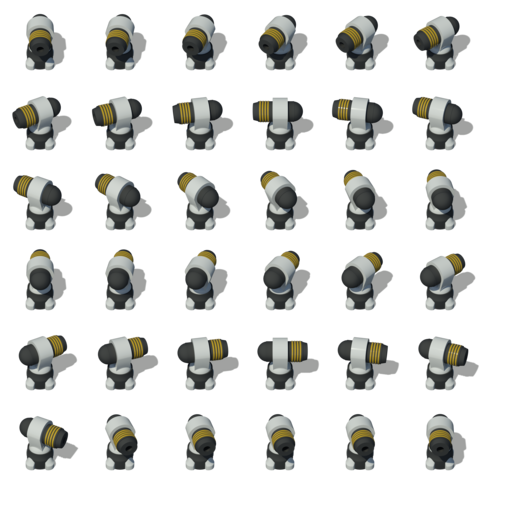
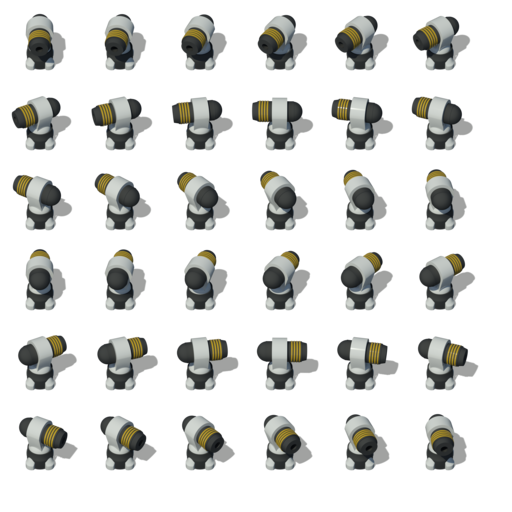
Animacja bazy. (jeszcze będzie poprawiana)

diff --git a/towerdef/src/pl/czyzycki/towerdef/gameplay/entities/Base.java b/towerdef/src/pl/czyzycki/towerdef/gameplay/entities/Base.java
@@ -2,8 +2,12 @@ package pl.czyzycki.towerdef.gameplay.entities;
 
 import pl.czyzycki.towerdef.gameplay.helpers.Circle;
 
+import com.badlogic.gdx.assets.AssetManager;
+import com.badlogic.gdx.graphics.Texture;
+import com.badlogic.gdx.graphics.g2d.Animation;
 import com.badlogic.gdx.graphics.g2d.BitmapFont;
 import com.badlogic.gdx.graphics.g2d.SpriteBatch;
+import com.badlogic.gdx.graphics.g2d.TextureRegion;
 import com.badlogic.gdx.graphics.glutils.ShapeRenderer;
 import com.badlogic.gdx.graphics.glutils.ShapeRenderer.ShapeType;
 import com.badlogic.gdx.math.Vector2;
@@ -14,8 +18,34 @@ public class Base {
 	Circle hitZone;
 	int hp, maxHp, hpBonus;
 	boolean destroyed;
+	float timer=0;
 	
 	StringBuilder hpText;
+	
+	static Animation baseAnimation;
+	
+	static public void loadAnimations(AssetManager assetMgr) {
+		Texture texture = assetMgr.get("images/base-anim.png", Texture.class);
+		TextureRegion[][] tmp = TextureRegion.split(texture, 80, 80);
+		
+		float animSpeed = 0.05f;
+		
+		
+		TextureRegion[] frames = new TextureRegion[63];
+
+		int k = 0;
+		boolean done = false;
+		
+		for(int i=0; i<tmp.length && !done; i++) {
+			for(int j=0; j<tmp[i].length && !done; j++) {
+				frames[k] = tmp[i][j];
+				k++;
+				if(k == frames.length) done = true;
+			}
+		}
+		
+		baseAnimation = new Animation(animSpeed, frames);
+	}
 	
 	public Base() {
 		hpText = new StringBuilder();
@@ -25,6 +55,13 @@ public class Base {
 		pos = new Vector2(x, y);
 		hitZone.pos = pos;
 		maxHp = hp;
+	}
+	
+	public void draw(SpriteBatch batch, float dt) {
+		timer += dt;
+		TextureRegion currentFrame = baseAnimation.getKeyFrame(timer, true);
+		batch.draw(currentFrame, pos.x-currentFrame.getRegionWidth()/2.0f,
+								 pos.y-currentFrame.getRegionHeight()/2.0f);
 	}
 	
 	public void takeHit(int damage) {

diff --git a/towerdef/src/pl/czyzycki/towerdef/TowerDef.java b/towerdef/src/pl/czyzycki/towerdef/TowerDef.java
@@ -1,6 +1,7 @@
 package pl.czyzycki.towerdef;
 
 import pl.czyzycki.towerdef.gameplay.GameplayScreen;
+import pl.czyzycki.towerdef.gameplay.entities.Base;
 import pl.czyzycki.towerdef.gameplay.entities.BulletTower;
 import pl.czyzycki.towerdef.gameplay.entities.Enemy;
 import pl.czyzycki.towerdef.menus.InstructionsScreen;
@@ -83,6 +84,7 @@ public class TowerDef extends Game {
 		assetManager.load("layouts/menu-bg2.png", Texture.class);
 		assetManager.load("layouts/font.png", Texture.class);
 		assetManager.load("images/enemy-anim.png", Texture.class);
+		assetManager.load("images/base-anim.png", Texture.class);
 		assetManager.load("images/flying.png", Texture.class);
 		assetManager.load("images/bullet-tower-airborne.png", Texture.class);
 		assetManager.load("images/bullet-tower-both.png", Texture.class);
@@ -102,6 +104,7 @@ public class TowerDef extends Game {
 		
 		Enemy.loadAnimations(assetManager);
 		BulletTower.loadAnimations(assetManager);
+		Base.loadAnimations(assetManager);
 		
 		theme = assetManager.get("music/theme.ogg", Music.class);
 		theme.setLooping(true);
